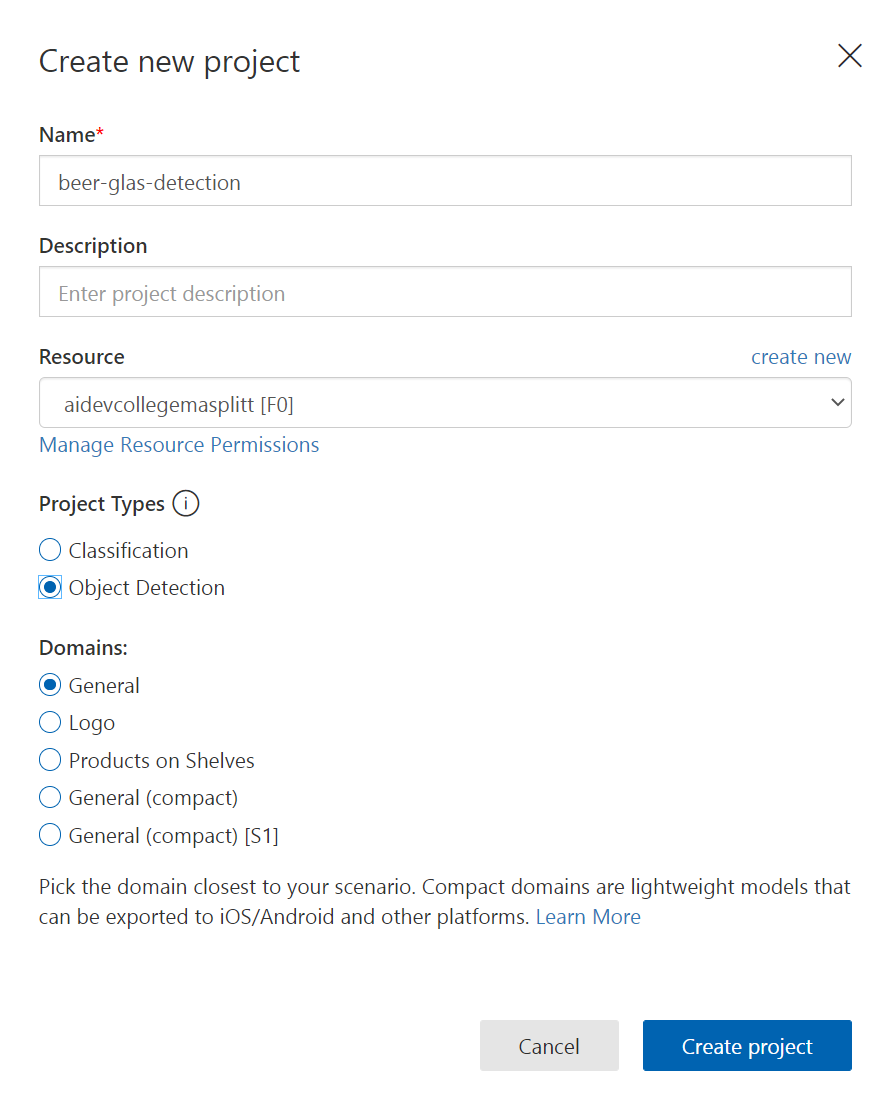
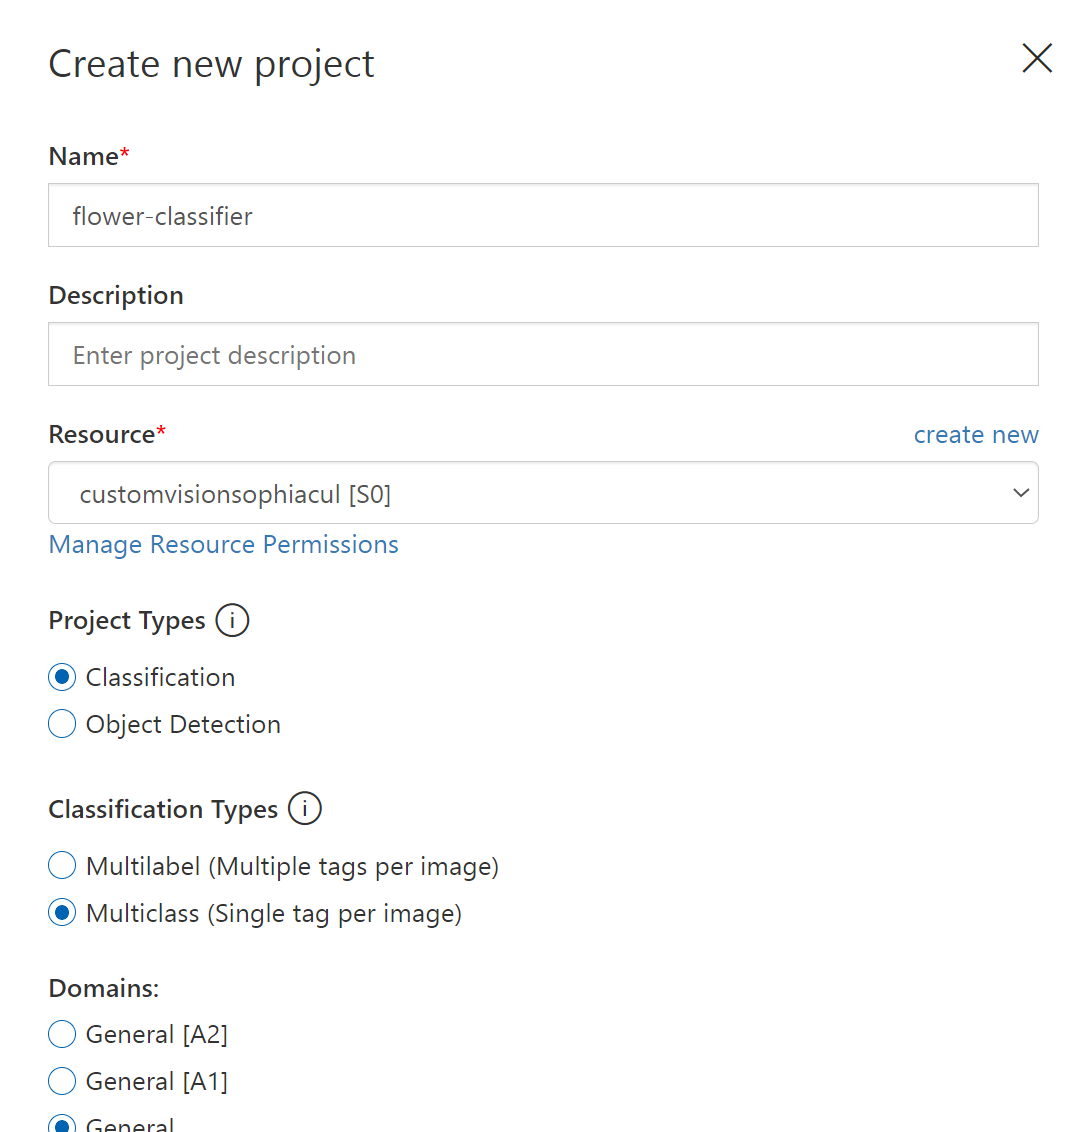
Change custom vision to flower classifier

diff --git a/day2/CognitiveServices/Challenge/CognitiveServices.md b/day2/CognitiveServices/Challenge/CognitiveServices.md
@@ -947,52 +947,41 @@ From recognizing text on images we will now detect objects on images for this we
 :triangular_flag_on_post: **Goal:** Detect beer glasses in images
 
 **What it does?**
-The Custom Vision service uses a machine learning algorithm to analyze images. You, the developer, submit groups of images that feature and lack the characteristics in question. You label the images yourself at the time of submission. Then, the algorithm trains to this data and calculates its own accuracy by testing itself on those same images. Once the algorithm is trained, you can test, retrain, and eventually use it in your image recognition app to classify new images. You can also export the model itself for offline use.
+The Custom Vision service uses a machine learning algorithm to analyze images. You, the developer, submits groups of images that feature and lack the characteristics in question. You label the images yourself at the time of submission. Then, the algorithm trains with this data and calculates its own accuracy by testing itself on those same images. Once the algorithm is trained, you can test, retrain, and eventually use it in your image recognition app to classify new images. You can also export the model itself for offline use.
 
-In this chapter, we will use [Custom Vision](https://customvision.ai) to detect beer glasses in images - [Image Dataset for training and testing](https://bootcamps.blob.core.windows.net/ml-test-images/beer_glasses.zip)
+In this chapter, we will use [Custom Vision](https://customvision.ai) to build a flower image classifier.
 
 First we deploy the **Azure Custom Vision** Service in the **Azure Portal**:
 
 ![Azure Portal](./images/CustomVision1.png)
 
-The Custom Vision Service has 2 types of endpoints. One for training the model and one for running predictions against the model. For this example, we will use both. Therfore, select _both_. Fill in the _name_ and the _region_ as well as the _pricing tier_ for the training and the prediction resource. Then hit _create_.
+The Custom Vision Service has 2 types of endpoints. One for training the model and one for running predictions against the model. For this example, we will use both. Therfore, select _both_. Fill in the _name_ and the _region_ as well as the _pricing tier (F0)_ for the training and the prediction resource. Then hit _create_.
 
 ![Azure Portal](./images/CustomVision2.png)
 
 Then, log in to [Custom Vision](https://www.customvision.ai/) with your Azure credentials.
 
-Create a new project of type `Object detection`:
+Create a new project of type `Classification`, classification type `Multiclass` and Domain `General`:
 
 ![alt text](./images/CustomVision4.png "Custom Vision Project")
 
-Next, add all the **training images** from the **unzipped** [dataset](https://bootcamps.blob.core.windows.net/ml-test-images/beer_glasses.zip) within the **beer_glasses_train**.
+Next, create tags for the different flower types our image classifier will be able to detect - daisy, rose, tulip, water lily and negative (none of the 4 flower types). Then upload minimum 15 **training images** per tag and tag them accordingly. Feel free to develop an image classifier with different images than flowers if this is what you prefer.
 
 ![alt text](./images/CustomVision6.png "Tagging the training images")
 
-Once added, we need to tag all the beer glasses in the images. If there are multiple glasses in one image, tag each one individually:
+Once we've tagged all images, we can hit the `Train` button. For this challenge choose _Quick Training_. After 1-2 minutes, we'll see the training statistics:
 
-![alt text](./images/customvision_tagging.png "Tagging the training images")
-
-Once we've tagged all 15 images (that's the minimum), we can hit the `Train` button. After 1-2 minutes, we'll see the training statistics:
-
-![alt text](./images/customvision_performance.png "Object Detection performance")
+![alt text](./images/customvision_performance.png "Image classification performance")
 
 Let's briefly look at the results and make sure we understand them:
 
-Sliders - they set the results given certain thresholds
+- **Precision** indicates the fraction of identified classifications that were correct. For example, if the classifier detects 10 images as tulips and only 5 images are actual tulips, the precision would be 50%.
+- **Recall** indicates the fraction of actual classifications that were correctly identified. For example, if the classifier detects 10 images as roses and 10 are actual roses, the recall would be 50%.
+- ** - Average Precision** summarises the precision and recall at different thresholds.
 
-- Probability Threshold: 82% - this means we only count detections with over 82% probability as beer glasses
-- Overlap Threshold: 51% - this means we want our detection results overlap at least 51% with the ground truth in the training set
+Under `Quick Test`, we can briefly test images and see what the service will detect. Look for the different flower types online and paste the image URLs in the Quick Test section. We only added a few training images (50 per tag are recommended) with a lot of variance, the results are not great yet. By adding more images, we could most likely improve the performance significantly.
 
-Results:
-
-- Precision: 30% - given a detection, it is 30% correct on average (meaning the algorithm will also detect other objects as glasses)
-- Recall: 100% - a recall of 100% means, it will detect all beer glasses (but maybe mistake some other objects as beer glasses too)
-- mAP: 83.3% - mean average precision - the average how well our detection algorithm works
-
-Under `Quick Test`, we can briefly upload our testing images and see what the service will detect. As we only added 15 training images with a lot of variance, the results are not great yet. By adding more images, we could most likely improve the detection performance significantly.
-
-If we go to the `Performance` tab, we can get the `Prediction URL` and the `Prediction-Key`. We can use this endpoint to programmatically access the service.
+If we go to the `Performance` tab, we can get the `Prediction URL` and the `Prediction-Key`. We can use this endpoint to programmatically access the service. We will do this in a later challenge.
 
 ## What we have done so far:
 
@@ -1006,7 +995,7 @@ In a next step, we want to see how the cognitive services can be embedded into a
 
 ## House Keeping: Lab Cleanup
 
-Remove the sample resource group.
+Remove the sample resource group at the end of the day.
 
 ```shell
 $ az group delete -n <yourResourceGroupName>
